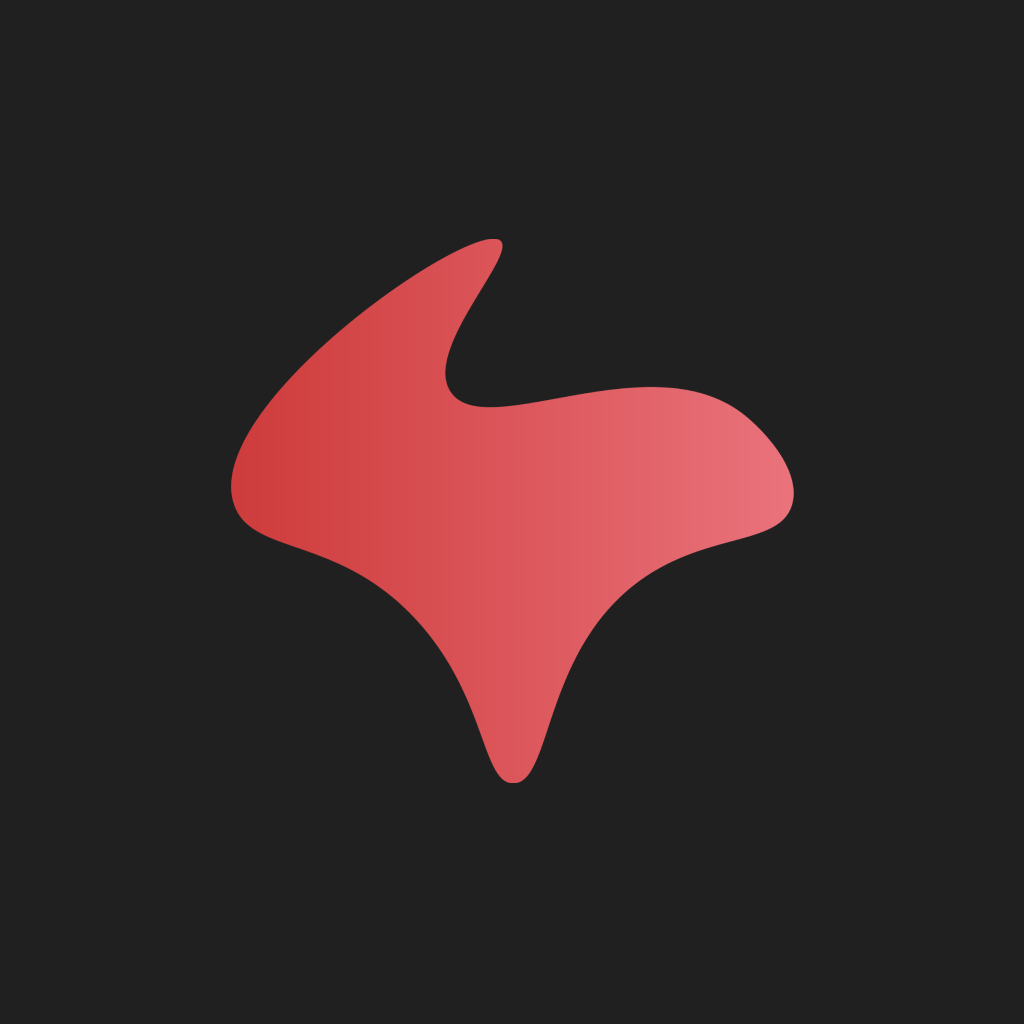
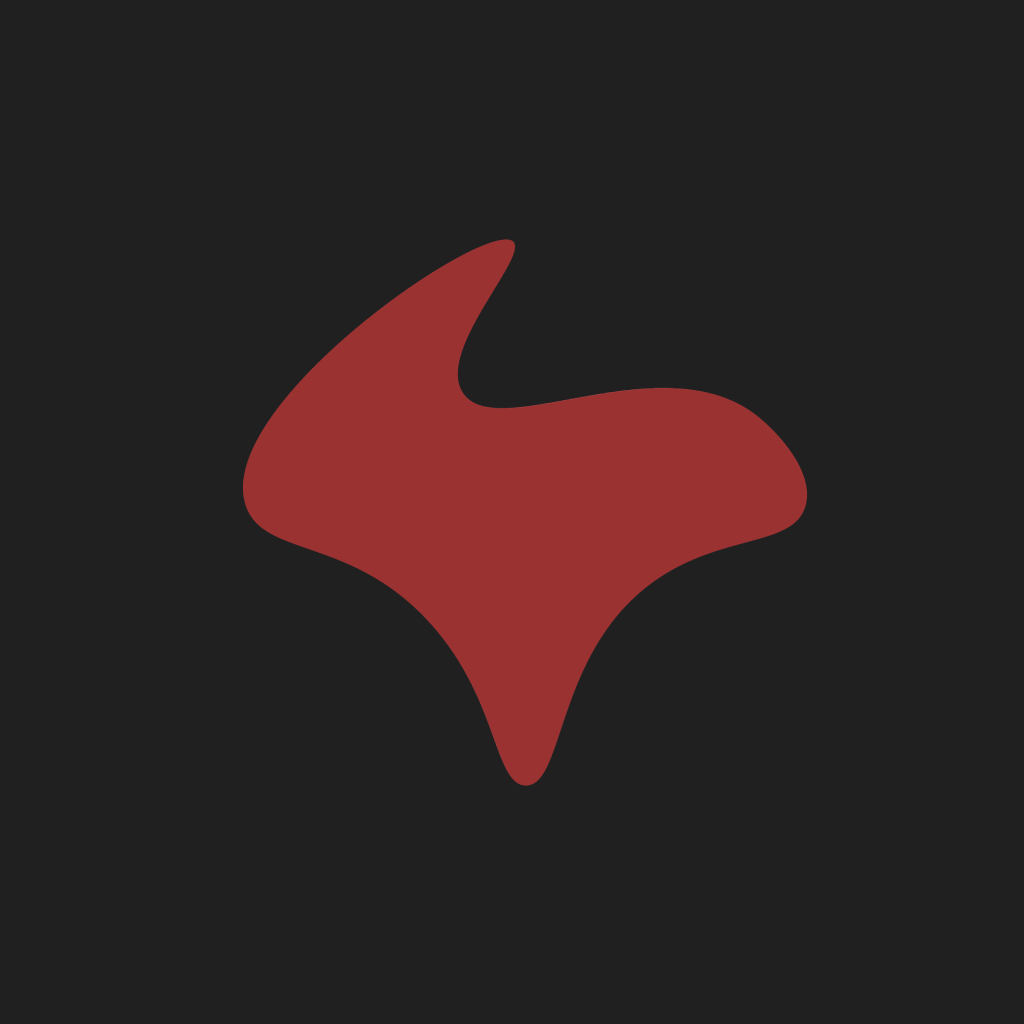
style: add new assets

Changed region(s): [[0.2188, 0.2188, 0.8125, 0.7812]]

diff --git a/assets/images.ts b/assets/images.ts
@@ -1,4 +1,4 @@
 export const image = {
-  logo: require("./logo2.png"),
+  logo: require("./logo23.png"),
   noImage: require("./images/noImage-01.png"),
 };
